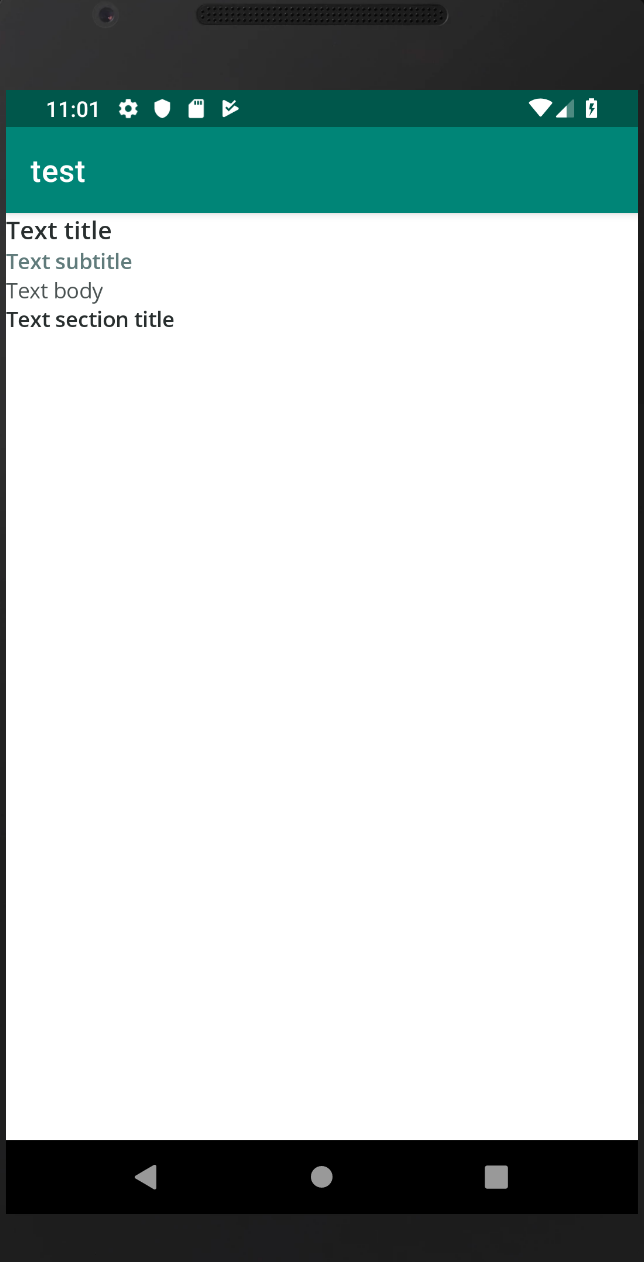
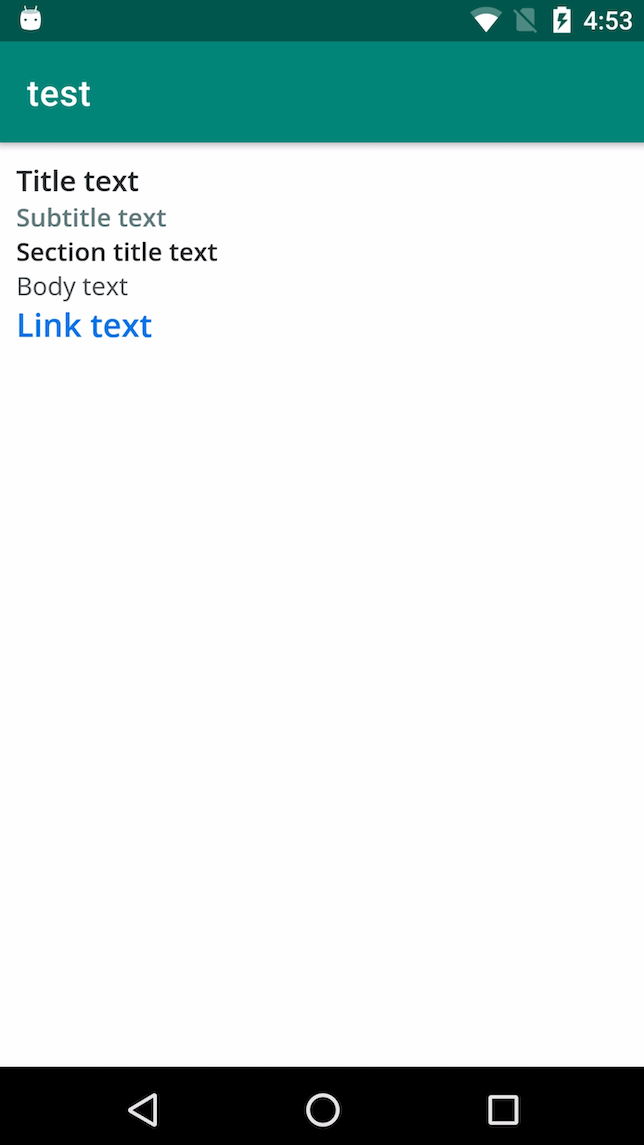
created link textview

Changed region(s): [[0.0, 0.0, 1.0, 1.0]]

diff --git a/test/src/androidTest/java/co/condorlabs/customcomponents/test/CustomTextViewTest.kt b/test/src/androidTest/java/co/condorlabs/customcomponents/test/CustomTextViewTest.kt
@@ -171,4 +171,42 @@ class CustomTextViewTest : MockActivityTest() {
             )
         )
     }
+
+    @SmallTest
+    @Test
+    fun shouldShowTextTypeLink() {
+        // Given
+        MockActivity.layout = R.layout.activity_custom_text_view_link_text
+        restartActivity()
+
+        // Then
+        onView(withId(R.id.tvLink)).check(matches(hasTextColor(R.color.primaryColor)))
+        onView(withId(R.id.tvLink)).check(
+            matches(
+                withFontSize(14f)
+            )
+        )
+    }
+
+    @SmallTest
+    @Test
+    fun shouldShowTextTypeLinkProgrammatically() {
+        // Given
+        MockActivity.layout = R.layout.activity_custom_text_view_default_text
+        restartActivity()
+        val formField = ruleActivity.activity.findViewById<CustomTextView>(R.id.tvDefault)
+
+        // When
+        ruleActivity.runOnUiThread {
+            formField.setCustomTextViewType(LINK_TYPE)
+        }
+
+        // Then
+        onView(withId(R.id.tvDefault)).check(matches(hasTextColor(R.color.primaryColor)))
+        onView(withId(R.id.tvDefault)).check(
+            matches(
+                withFontSize(14f)
+            )
+        )
+    }
 }

diff --git a/app/src/main/java/co/condorlabs/customcomponents/customtextview/CustomTextViewStyle.kt b/app/src/main/java/co/condorlabs/customcomponents/customtextview/CustomTextViewStyle.kt
@@ -12,6 +12,7 @@ sealed class CustomTextViewStyle(
     object SubTitleTextViewStyle : CustomTextViewStyle(R.dimen.body, R.color.subtitleColor, OPEN_SANS_SEMI_BOLD)
     object BodyTextViewStyle : CustomTextViewStyle(R.dimen.body, R.color.labelColor, OPEN_SANS_REGULAR)
     object SectionTitleTextViewStyle : CustomTextViewStyle(R.dimen.section_title_size, R.color.textColor, OPEN_SANS_SEMI_BOLD)
+    object LinkTextViewStyle : CustomTextViewStyle(R.dimen.small_button_size, R.color.primaryColor, OPEN_SANS_SEMI_BOLD)
 
     fun getFontSize(): FontSize {
         return fontSize

diff --git a/app/src/main/java/co/condorlabs/customcomponents/customtextview/CustomTextViewStyleFactory.kt b/app/src/main/java/co/condorlabs/customcomponents/customtextview/CustomTextViewStyleFactory.kt
@@ -10,6 +10,7 @@ object CustomTextViewStyleFactory {
         put(TITLE_TYPE, CustomTextViewStyle.TitleTextViewStyle)
         put(SUBTITLE_TYPE, CustomTextViewStyle.SubTitleTextViewStyle)
         put(SECTION_TITLE_TYPE, CustomTextViewStyle.SectionTitleTextViewStyle)
+        put(LINK_TYPE, CustomTextViewStyle.LinkTextViewStyle)
     }
 
     fun getStyleFromType(type: Int): CustomTextViewStyle {

diff --git a/app/src/main/java/co/condorlabs/customcomponents/Constants.kt b/app/src/main/java/co/condorlabs/customcomponents/Constants.kt
@@ -192,4 +192,5 @@ const val BODY_TYPE = 0
 const val TITLE_TYPE = 1
 const val SUBTITLE_TYPE= 2
 const val SECTION_TITLE_TYPE = 3
+const val LINK_TYPE = 4
 

diff --git a/app/src/main/java/co/condorlabs/customcomponents/customtextview/readme.md b/app/src/main/java/co/condorlabs/customcomponents/customtextview/readme.md
@@ -14,7 +14,7 @@
 
 | Name | Description |
 | - | - |
-| type_text | Should be **title**, **subtitle**, **body**, **sectionTitle** |
+| type_text | Should be **title**, **subtitle**, **body**, **sectionTitle**, **link** |
 
 | FontType | FontSize |
 | - | - |
@@ -30,6 +30,7 @@
 | smallButton | 14 |
 | largeButton | 20 |
 | sectionTitle | 14 |
+| Link | 18 |
 
 ## Public methods
 | Return Type | Description |
@@ -43,7 +44,7 @@
 |  TITLE_TYPE | 1 |
 |  SUBTITLE_TYPE | 2 |
 |  SECTION_TITLE_TYPE | 3 |
-
+|  LINK_TYPE | 4 |
 
 
 ## Example
